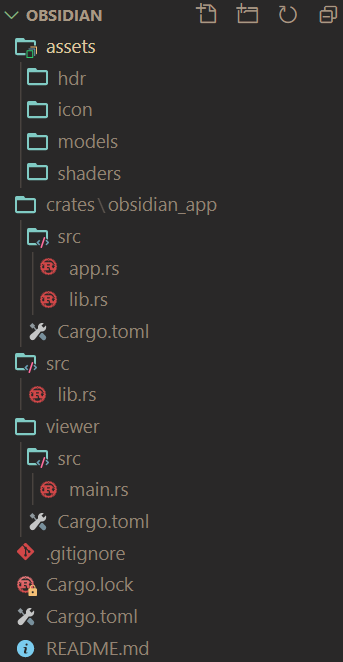
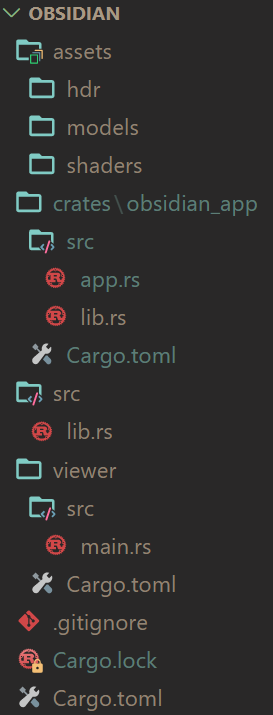
Update file structure image

diff --git a/src/project-setup.md b/src/project-setup.md
@@ -9,8 +9,6 @@ The directory structure for the project will look like this:
 * `assets/`
   * `hdr/`
     Contains hdri maps used for skyboxes and environment maps
-  * `icon/`
-    Contains icons used by applications
   * `models/`
     Contains 3D assets, such as \*.gltf and \*.glb files
   * `shaders/`
